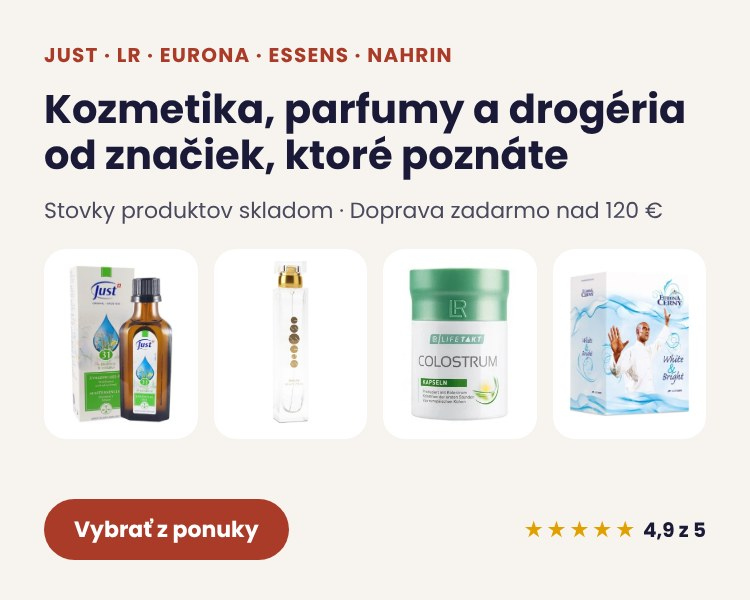
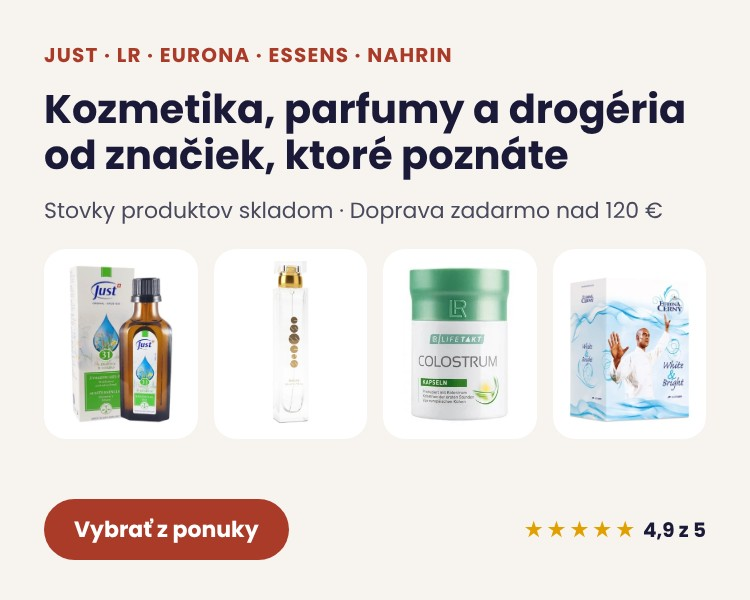
Záloha práce 11:14

Changed region(s): [[0.736, 0.45, 0.92, 0.72]]

diff --git a/work/banner/hero.html b/work/banner/hero.html
@@ -14,10 +14,8 @@ h1{margin:0;font-size:42px;line-height:1.14;font-weight:700}
 .stars{color:#e0a100;font-size:24px;letter-spacing:2px}
 .cards{flex:1;display:flex;gap:20px;align-items:center;justify-content:flex-end}
 .card{background:#fff;border-radius:24px;width:190px;height:290px;display:flex;flex-direction:column;align-items:center;justify-content:center;gap:10px;padding:14px}
-.card img{width:160px;height:215px;object-fit:contain}
+.card img{width:160px;height:215px;object-fit:contain;object-position:50% 100%}
 .card span{font-size:16px;color:#4a4a5e}
-.card:nth-child(2){transform:translateY(-14px)}
-.card:nth-child(4){transform:translateY(-14px)}
 </style></head>
 <body><div class="wrap">
 <div class="text">

diff --git a/work/banner/hero_sk.html b/work/banner/hero_sk.html
@@ -14,10 +14,8 @@ h1{margin:0;font-size:42px;line-height:1.14;font-weight:700}
 .stars{color:#e0a100;font-size:24px;letter-spacing:2px}
 .cards{flex:1;display:flex;gap:20px;align-items:center;justify-content:flex-end}
 .card{background:#fff;border-radius:24px;width:190px;height:290px;display:flex;flex-direction:column;align-items:center;justify-content:center;gap:10px;padding:14px}
-.card img{width:160px;height:215px;object-fit:contain}
+.card img{width:160px;height:215px;object-fit:contain;object-position:50% 100%}
 .card span{font-size:16px;color:#4a4a5e}
-.card:nth-child(2){transform:translateY(-14px)}
-.card:nth-child(4){transform:translateY(-14px)}
 </style></head>
 <body><div class="wrap">
 <div class="text">

diff --git a/work/banner/hero_m.html b/work/banner/hero_m.html
@@ -9,7 +9,7 @@ h1{margin:0;font-size:40px;line-height:1.15;font-weight:700}
 .sub{font-size:22px;color:#4a4a5e;margin:0}
 .cards{display:flex;gap:16px;margin-top:6px}
 .card{background:#fff;border-radius:22px;flex:1;height:190px;display:flex;align-items:center;justify-content:center;padding:12px}
-.card img{width:100%;height:166px;object-fit:contain}
+.card img{width:100%;height:166px;object-fit:contain;object-position:50% 100%}
 .row{display:flex;align-items:center;justify-content:space-between;margin-top:auto}
 .btn{background:#aa3b29;color:#fff;font-weight:600;font-size:22px;padding:14px 30px;border-radius:999px}
 .rating{font-size:20px}

diff --git a/work/banner/hero_m_sk.html b/work/banner/hero_m_sk.html
@@ -9,7 +9,7 @@ h1{margin:0;font-size:40px;line-height:1.15;font-weight:700}
 .sub{font-size:22px;color:#4a4a5e;margin:0}
 .cards{display:flex;gap:16px;margin-top:6px}
 .card{background:#fff;border-radius:22px;flex:1;height:190px;display:flex;align-items:center;justify-content:center;padding:12px}
-.card img{width:100%;height:166px;object-fit:contain}
+.card img{width:100%;height:166px;object-fit:contain;object-position:50% 100%}
 .row{display:flex;align-items:center;justify-content:space-between;margin-top:auto}
 .btn{background:#aa3b29;color:#fff;font-weight:600;font-size:22px;padding:14px 30px;border-radius:999px}
 .rating{font-size:20px}
